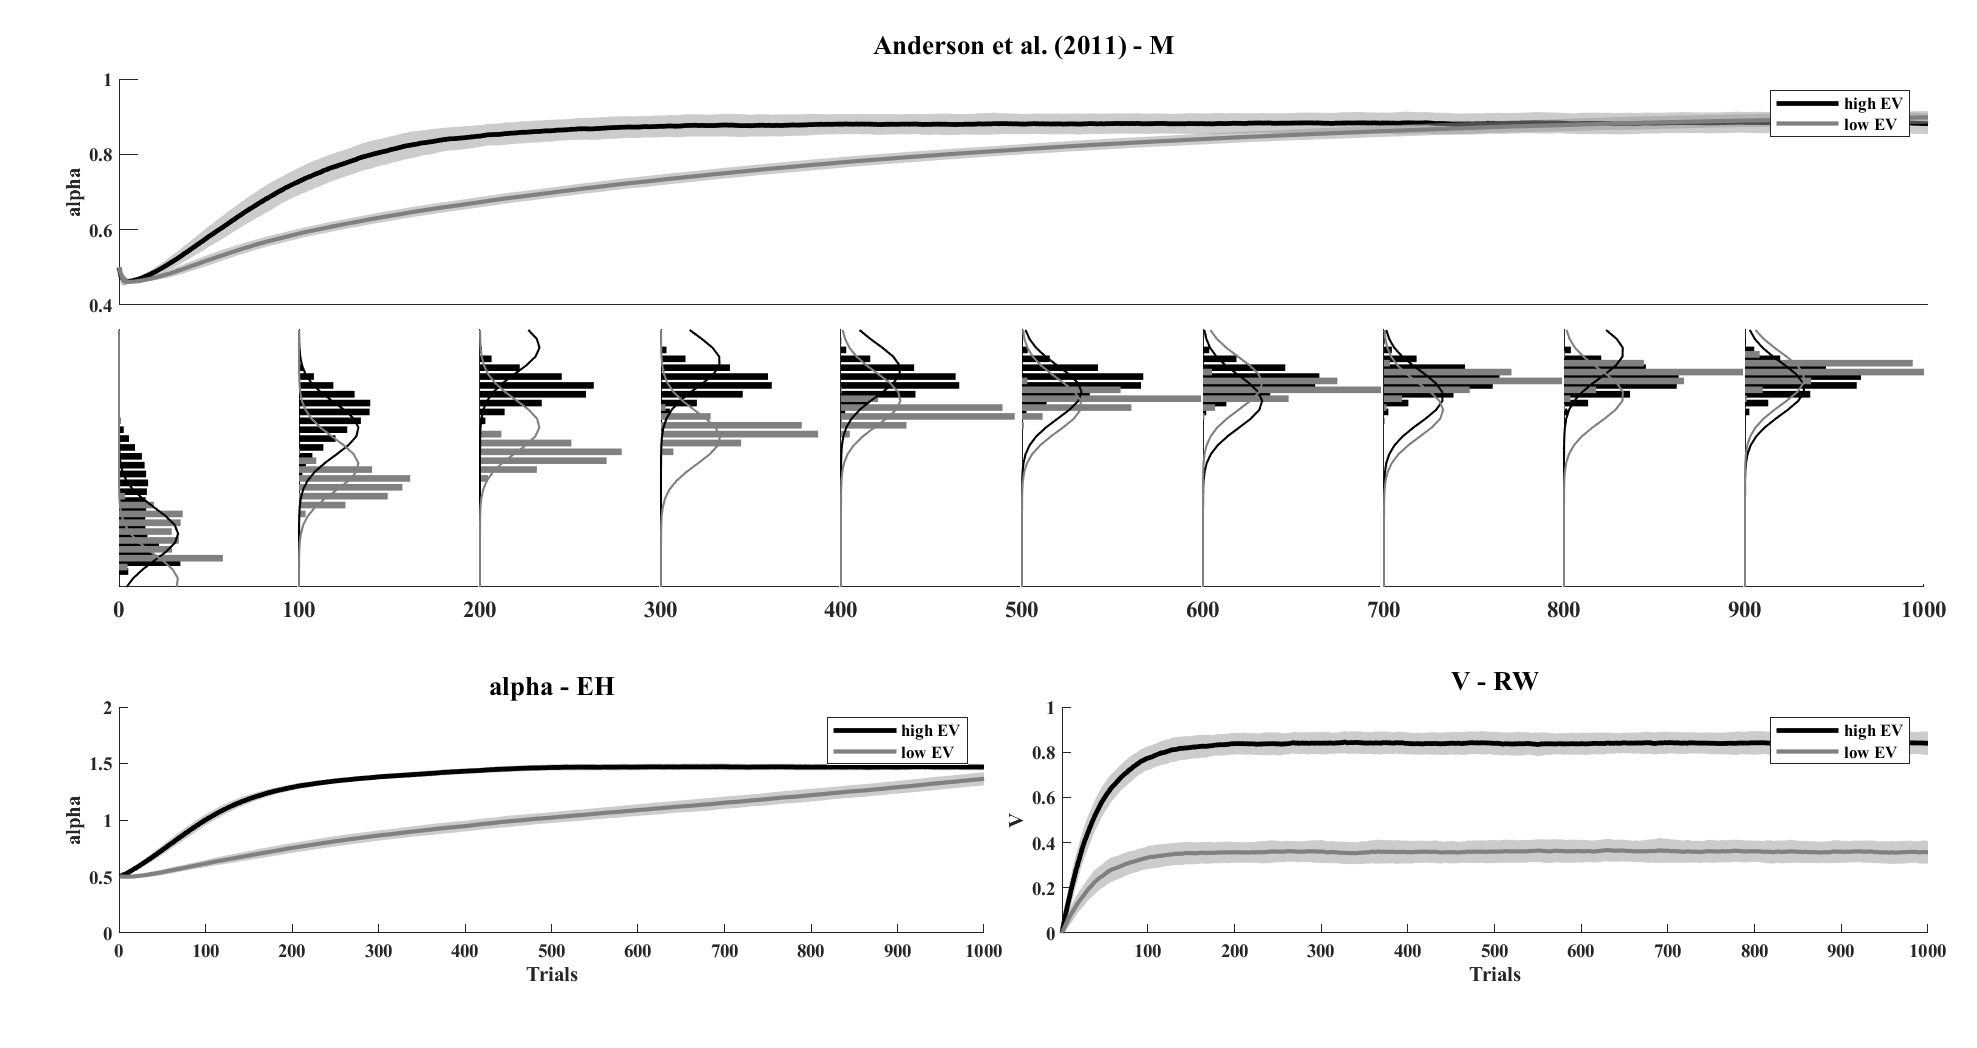
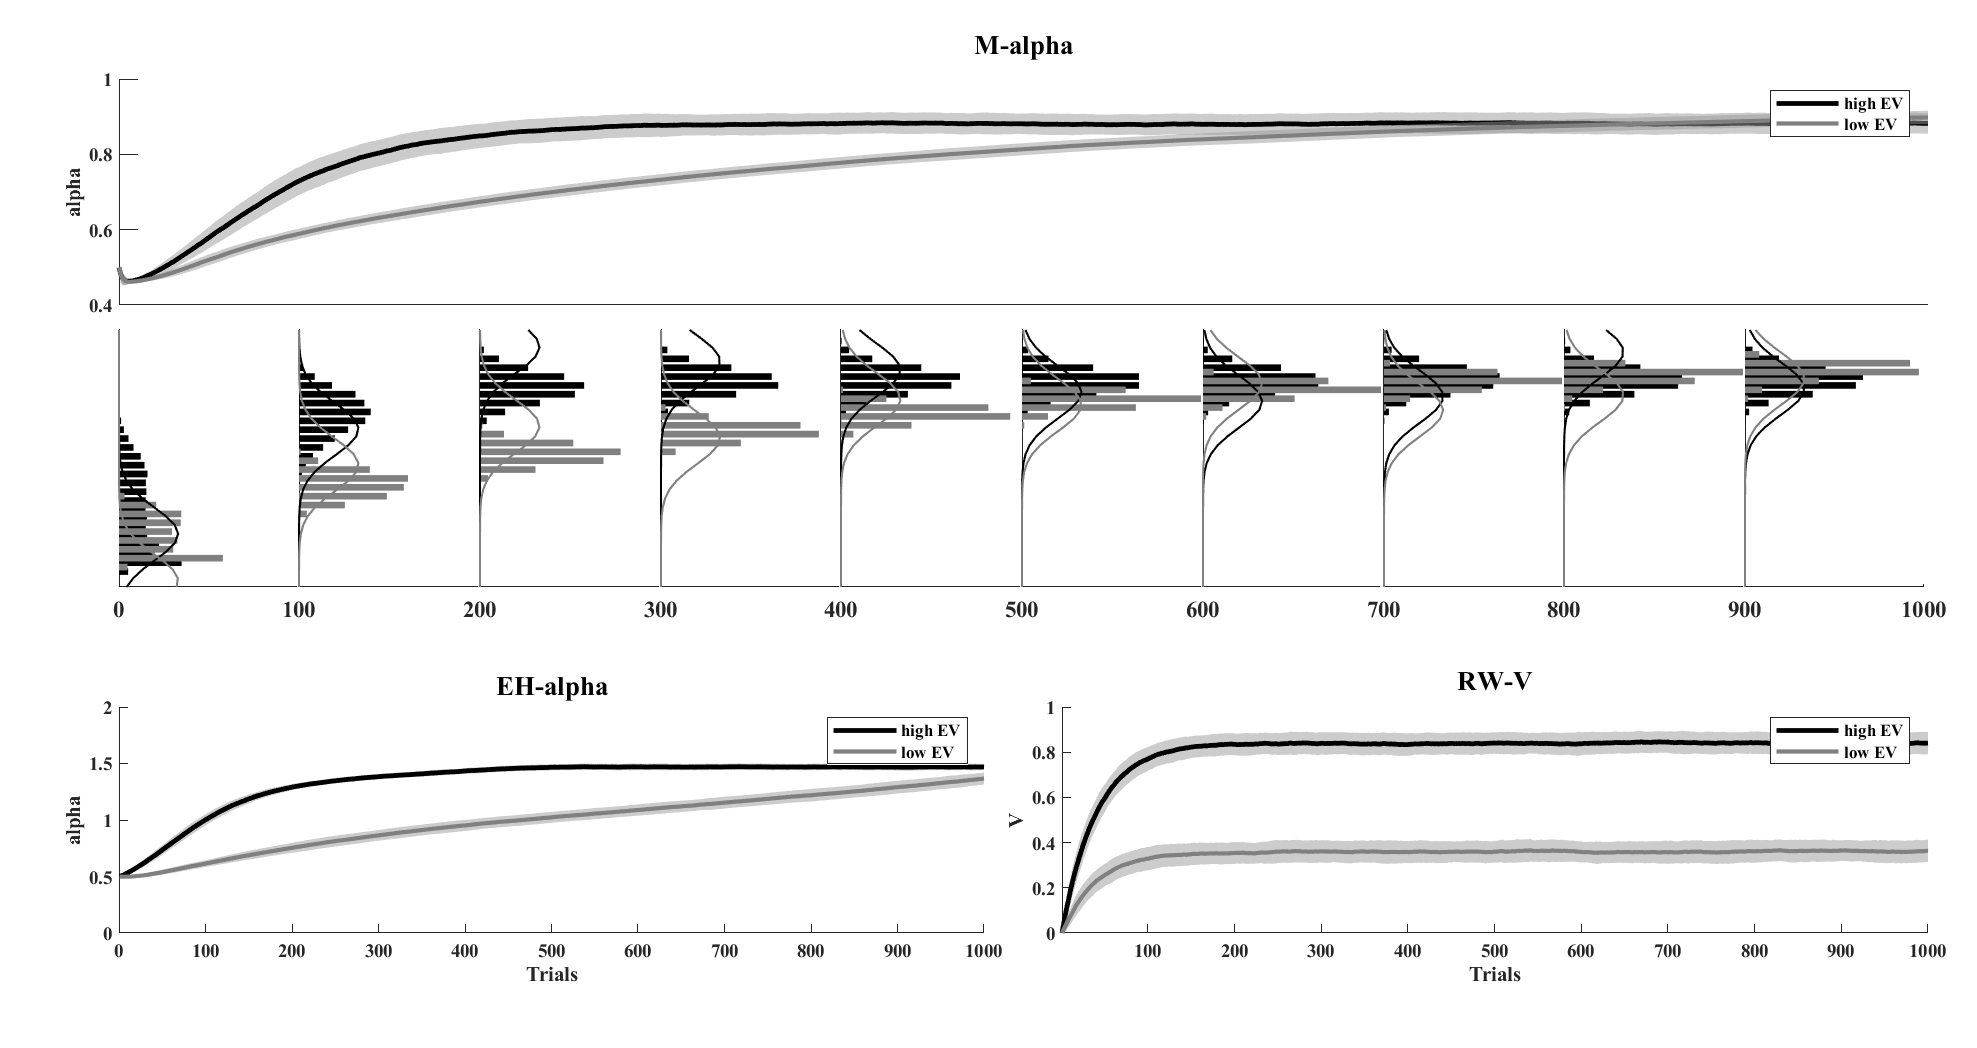
figure minor change

diff --git a/VDAC/Figures/Fig1.m b/VDAC/Figures/Fig1.m
@@ -43,7 +43,7 @@ xlabel('Trials');
 ylabel('V');
 
 % Texts
-t = title('Anderson (2016) - RW');
+t = title('Anderson (2016)');
 t.Position(2) = 1.05; % slightly move up
 t.FontSize = 13;
 set(ax1, 'FontName', 'Times New Roman Bold');
@@ -79,7 +79,7 @@ xlabel('Trials');
 ylabel('V');
 
 % Texts
-t = title('Anderson & Halpern (2017) - RW', 'FontSize', 12);
+t = title('Anderson & Halpern (2017)', 'FontSize', 12);
 t.Position(2) = 1.05;
 t.FontSize = 13;
 set(ax2, 'FontName', 'Times New Roman Bold');
@@ -114,7 +114,7 @@ xlabel('Trials');
 ylabel('V');
 
 % Texts
-t = title('Mine & Saiki (2015) - RW');
+t = title('Mine & Saiki (2015)');
 t.Position(2) = 1.05;
 t.FontSize = 13;
 set(ax3, 'FontName', 'Times New Roman Bold');
@@ -149,7 +149,7 @@ xlabel('Trials');
 ylabel('V');
 
 % Texts
-t = title('Anderson (2011) - RW');
+t = title('Anderson (2011)');
 t.Position(2) = 1.05;
 t.FontSize = 13;
 set(ax4, 'FontName', 'Times New Roman Bold');

diff --git a/VDAC/Figures/Fig2.m b/VDAC/Figures/Fig2.m
@@ -42,7 +42,7 @@ xticks([]);
 ylabel('alpha');
 
 % Texts
-t = title('Anderson et al. (2011) - M');
+t = title('M-alpha');
 t.Position(2) = 1.05;
 t.FontSize = 13;
 set(ax1, 'FontName', 'Times New Roman Bold');
@@ -106,7 +106,7 @@ xlabel('Trials');
 ylabel('alpha');
 
 % Texts
-t = title('alpha - EH');
+t = title('EH-alpha');
 t.Position(2) = 2.05;
 t.FontSize = 13;
 set(ax3, 'FontName', 'Times New Roman Bold');
@@ -139,7 +139,7 @@ xlabel('Trials');
 ylabel('V');
 
 % Texts
-t = title('V - RW');
+t = title('RW-V');
 t.Position(2) = 1.05;
 t.FontSize = 13;
 set(ax4, 'FontName', 'Times New Roman Bold');
